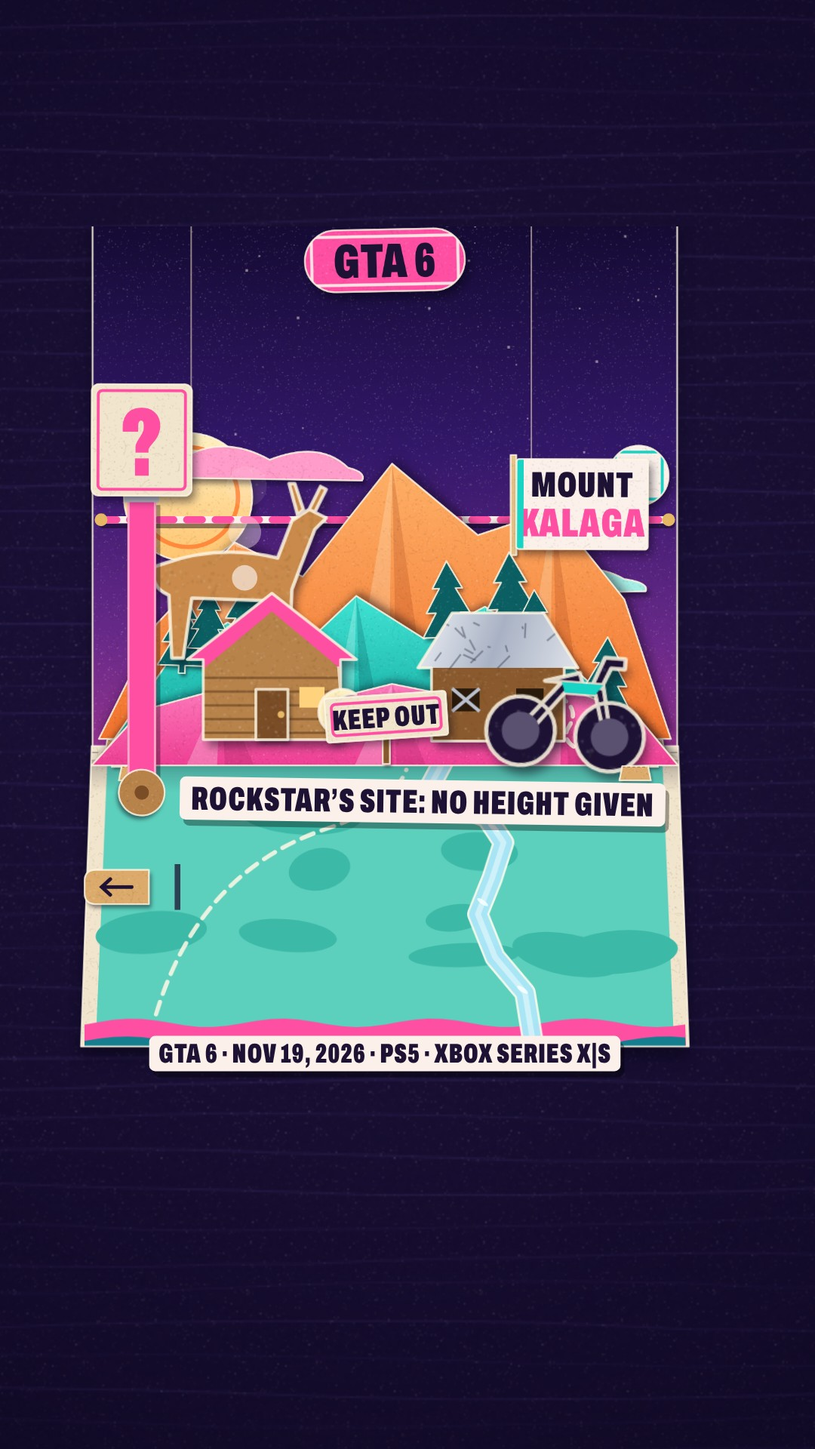
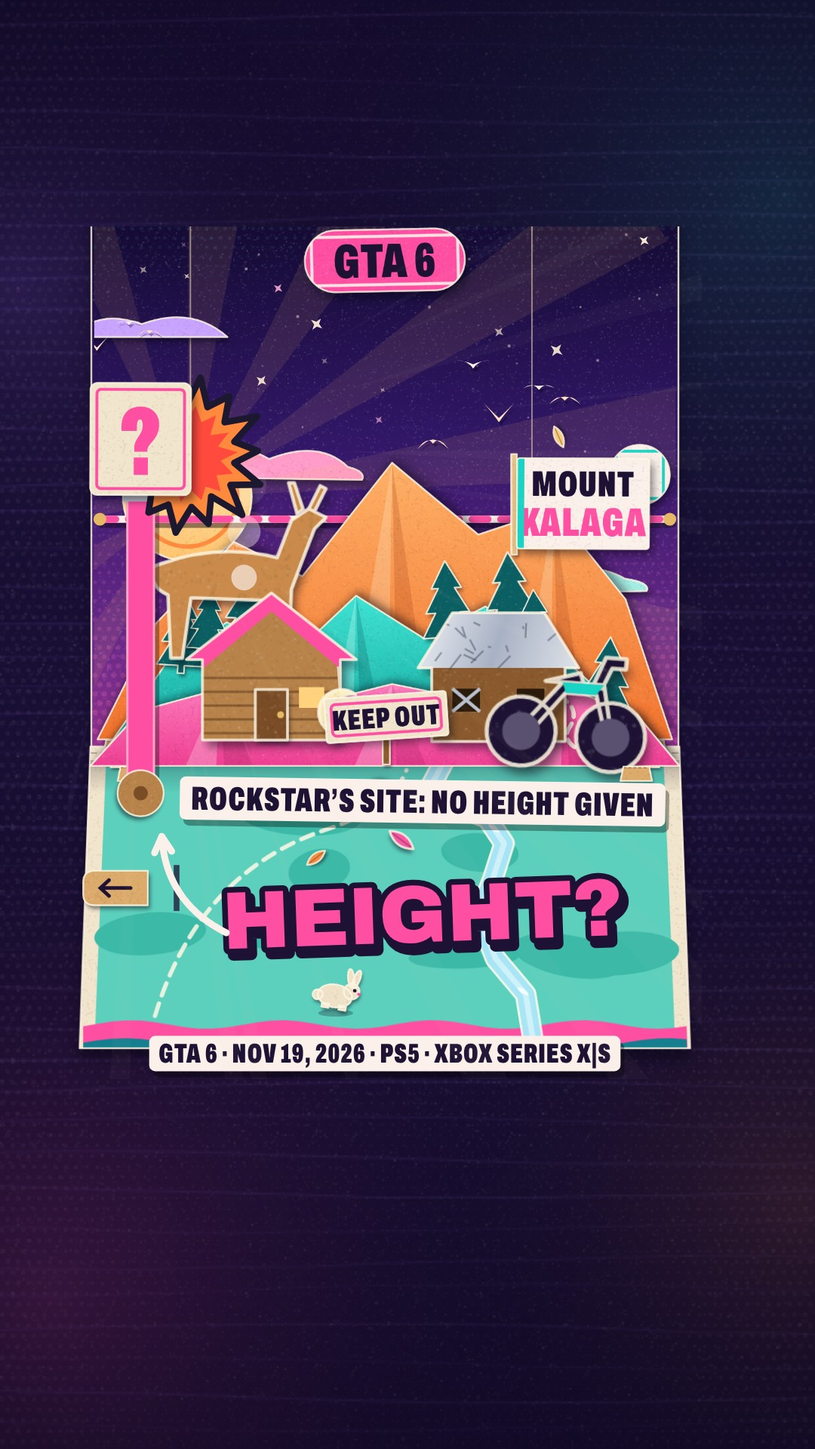
Delta: more graphical gta-kalaga cut (Isac: more graphics and content); LESSONS rule for every Delta film
Claude-Session: https://claude.ai/code/session_0183o4NXUvsYefT4N8YASy3i

diff --git a/film/gta-kalaga/film.js b/film/gta-kalaga/film.js
@@ -285,6 +285,8 @@
     P.page = piece([100, 230, 920, 990], rect(100, 230, 920, 990), grad(230, 990, [[0, '#120a30'], [.45, '#33186a'], [.8, '#6a2a8a'], [1, '#93338e']]), { sx: 0, sy: -8, blur: 18, ps: 1, extra: function (g) {
       var r = mulberry(5); g.fillStyle = 'rgba(255,240,230,.5)';
       for (var i = 0; i < 26; i++) { var x = 120 + r() * 780, y = 250 + r() * 380, s = 1.5 + r() * 2.5; g.fillRect(x, y, s, s); }
+      /* printed halftone: pink dots that grow toward the horizon, teal dots near the top */
+      for (var yy = 236; yy < 990; yy += 13) for (var xx = 104 + ((yy / 13) % 2) * 6.5; xx < 920; xx += 13) { var hk = clamp((yy - 560) / 420, 0, 1), tk = clamp((420 - yy) / 180, 0, 1); if (hk > 0) { g.fillStyle = 'rgba(255,120,190,' + (.10 + .12 * hk).toFixed(3) + ')'; g.beginPath(); g.arc(xx, yy, 1 + 3.4 * hk, 0, TAU); g.fill(); } if (tk > 0) { g.fillStyle = 'rgba(80,230,220,' + (.10 * tk).toFixed(3) + ')'; g.beginPath(); g.arc(xx, yy, 1 + 2 * tk, 0, TAU); g.fill(); } }
     } });
     P.sun = piece([-92, -92, 92, 92], function (g) { g.beginPath(); g.arc(0, 0, 90, 0, TAU); }, grad(-90, 90, [[0, '#fff1c2'], [1, '#ffc46e']]), { sy: 6, blur: 10, after: function (g) { g.strokeStyle = ORG; g.lineWidth = 6; g.beginPath(); g.arc(0, 0, 70, 0, TAU); g.stroke(); } });
     P.cloud1 = piece([0, -40, 360, 26], function (g) { g.beginPath(); g.moveTo(0, 20); g.quadraticCurveTo(40, -26, 100, -2); g.quadraticCurveTo(160, -44, 230, -6); g.quadraticCurveTo(300, -34, 340, 4); g.quadraticCurveTo(366, 10, 360, 22); g.closePath(); }, '#ff9cc9', { sy: 7, blur: 8 });
@@ -372,6 +374,7 @@
     P.pill = cardPiece(212, 82, HOT, [['GTA 6', 64, INK, 3]], { r: 41, ring: 'rgba(255,240,234,.9)' });
     /* Rockstar's words, exactly as printed on rockstargames.com/VI/only-in-leonida/kalaga, cut with … */
     P.s1 = buildStrip('“A national landmark up against the state’s northern border… prime hunting, fishing, and off-road trails.”', 760, 48, 61);
+    buildMore();
     P.s3 = buildStrip('“…hillbilly mystics and paranoid radicals live far from the prying eyes of the government.”', 760, 48, 63);
   }
   /* =====================================================================================================
@@ -384,7 +387,8 @@
     var d = eio(seg(t, T.dip0, T.dip0 + .9)) * (1 - eio(seg(t, T.up0, T.up0 + .8)));
     var pu = eio(seg(t, T.push0, T.push1)) * (1 - eio(seg(t, T.dip0, T.dip0 + .9)));
     var jolt = kn(t, T.pop + .12, .03) * (1 + .03 * Math.sin(Math.PI * .5 * seg(t, 0, T.pop)) * (1 - eio(seg(t, T.fold0, T.reopen + .4)))), ey = 1 + .06 * eio(seg(t, T.ey0, T.ey1)) * (1 - eio(seg(t, T.up0, T.up0 + .8)));
-    return { cx: 510 + 10 * d, cy: 865 + 40 * d + 12 * pu, s: (1 + .12 * d + .04 * pu) * jolt * ey, r: r, d: d };
+    var pn = 1; (T.punch || []).forEach(function (p) { pn *= KIT.punch(t, p[0], p[1]); });
+    return { cx: 510 + 10 * d, cy: 865 + 40 * d + 12 * pu, s: (1 + .12 * d + .04 * pu) * jolt * ey * pn, r: r, d: d };
   }
   function L(g, C, p) { var zz = 1 + (C.s - 1) * p; g.translate(510, 865); g.scale(zz, zz); g.translate(-(510 + (C.cx - 510) * p), -(865 + (C.cy - 865) * p)); }
   function lay(g, C, p, fn) { g.save(); L(g, C, p); fn(); g.restore(); }
@@ -443,7 +447,7 @@
     put(g, P.vtab, 140, 976); put(g, P.vtab, 880, 976);
     upright(g, 0, 992, Rm, function () {
       put(g, P.mMid, 0, 0);
-      PINES.forEach(function (p, i) { var y = ridgeY(MIDR, p[0]) + 22, s = p[1]; g.save(); g.translate(p[0], y); g.rotate(.035 * osc(t, 5 + (i % 3), i) + sw(t, T.flag + .1, .05, 7, 2.4) * (i % 2 ? 1 : -1)); g.scale(s, s); put(g, P.pine, 0, 0); g.restore(); });
+      PINES.forEach(function (p, i) { var y = ridgeY(MIDR, p[0]) + 22, s = p[1]; g.save(); g.translate(p[0], y); g.rotate(.06 * osc(t, 5 + (i % 3), i) + sw(t, T.flag + .1, .05, 7, 2.4) * (i % 2 ? 1 : -1)); g.scale(s, s); put(g, P.pine, 0, 0); g.restore(); });
       /* the deer pops up on "hunting" */
       var dk = pk(t, T.deer, 15); if (dk > .01) upright(g, 0, 862, dk * fz, function () { put(g, P.deer, 300, 862, 0, 2.0 * kn(t, T.deer + .05, .25)); });
     });
@@ -501,7 +505,8 @@
       g.fillStyle = 'rgba(255,240,234,.55)'; g.fillRect(150, top, 3, 1050 - top); g.fillRect(187, top, 3, 1050 - top);
       g.fillStyle = '#c9ccd8'; g.fillRect(146, top - 8, 48, 12); g.restore();
       put(g, P.spool, 170, 1050, t * 2);
-      if (t >= T.qtag - .02) { var qk = cd(t, T.qtag, 18), qy = lerp(300, top - 82, qk) + (1 - tk) * 0; upright(g, 0, 1050, tk, function () { NOREC = qk < .98 || tk < .98 || moving(C); putW(g, P.qtag, 170, qy, sw(t, T.qtag + .1, .12, 8, 3) + .02 * osc(t, 9)); NOREC = false; }); }
+      if (t >= T.qtag - .02) { var qk = cd(t, T.qtag, 18), qy = lerp(300, top - 82, qk) + (1 - tk) * 0; var bu = t - T.qtag - .1, bq = bu < 0 ? 0 : eo(seg(bu, 0, .16)) * featFold(t); if (bq > .01) KIT.burst(g, 236, top - 60, 104 * bq, bu, ORG);
+        upright(g, 0, 1050, tk, function () { NOREC = qk < .98 || tk < .98 || moving(C); putW(g, P.qtag, 170, qy, sw(t, T.qtag + .1, .12, 8, 3) + .02 * osc(t, 9)); NOREC = false; }); }
     }
     /* the frame-0 question and the end vote, pop-up panels on stilts */
     var qa = 1 - pk(t, T.tagDown, 16) + pk(t, T.tagUp, 16);
@@ -523,25 +528,215 @@
       put(g, P.page, 0, 0);
       put(g, P.sun, 238 + 5 * osc(t, 1), 640 + 4 * osc(t, 2));
       [[P.cloud1, 150, 590, 1, 0], [P.cloud2, 560, 760, 1, 2]].forEach(function (c) { var x = c[1] + 40 * osc(t, c[3], c[4]), y = c[2] + 6 * osc(t, 3, c[4]); g.strokeStyle = 'rgba(233,214,189,.6)'; g.lineWidth = 2; g.beginPath(); g.moveTo(x + 120, 230); g.lineTo(x + 120, y - 20); g.stroke(); put(g, c[0], x, y, .02 * osc(t, 4, c[4])); });
+      skyMore(g, t);
       ribbon(g, t);
       /* the N tab flips up with the border's snap */
       var nk = cd(t, T.ntab, 16) * (1 - eio(seg(t, T.fold0, T.fold0 + .4)));
       upright(g, 0, 650, Math.max(.08, nk), function () { NOREC = nk < .98 || moving(C); putW(g, P.ntab, 866, 606); NOREC = false; });
+      /* a hand-drawn circle lands on the N tab as the border snaps */
+      var nsa = 1 - seg(t, T.ntab + 1.8, T.ntab + 2.1); if (t > T.ntab + .1 && nsa > 0) { g.save(); g.globalAlpha *= nsa; KIT.scribble(g, 866, 606, 62, 58, eio(seg(t, T.ntab + .1, T.ntab + .45)), CREAM, 7, 2); g.restore(); }
     });
     book(g, C, 1, function () {
       put(g, P.map, 0, 0);
+      leaves(g, t);
       mountain(g, t, C);
+      mapMore(g, t);
       mapProps(g, t, C);
       /* the backwoods curtain slides across on "government" and away on "But" */
       var ck = eio(seg(t, T.cur0, T.cur0 + .6)), co = eio(seg(t, T.up0, T.up0 + .7));
-      if (ck > 0 && co < 1) put(g, P.curtain, lerp(-1060, 0, ck) + co * -1060, 0);
+      if (ck > 0 && co < 1) { put(g, P.curtain, lerp(-1060, 0, ck) + co * -1060, 0); woodsMore(g, t, lerp(-1060, 0, ck) + co * -1060, ck * (1 - co)); }
       /* the binoculars poke in from the right on "prying" and retreat behind the curtain */
       var bi = eio(seg(t, T.bin0, T.bin0 + .55)) * (1 - eio(seg(t, T.binOut, T.binOut + .5)));
       if (bi > 0) put(g, P.binoc, lerp(1120, 820, bi), 838 + 6 * osc(t, 9), -.05 + .03 * Math.sin(t * 3));
       /* the magnifier sweeps the slopes on "In Rockstar's words" */
       var mg = seg(t, T.mag0, T.mag0 + 1.5);
       if (mg > 0 && mg < 1) put(g, P.mag, lerp(-160, 1180, eio(mg)), 800 - 90 * Math.sin(mg * Math.PI), -.2 + .3 * mg);
+      setFx(g, t);
     });
+  }
+
+  /* =====================================================================================================
+     MORE GRAPHICAL (Isac, 2026-11-04): denser frames without touching the voice or a fact. Ambient paper life
+     (birds, drifting clouds, sun rays, twinkles, river shimmer, falling leaves, a rabbit, jumping fish, an owl,
+     fireflies), kit kinetic type on the key words, icon tags for each activity, kit fx hits, camera punches and
+     paper-ribbon wipes between beats. Every ambient motion is periodic in DUR (the loop holds); every new shape
+     clips itself to the rail, so nothing crosses x 90-930 / y 300-1430 even with the safety clip off.
+     ===================================================================================================== */
+  var KIT = window.KIT;
+  function frac(x) { return x - Math.floor(x); }
+  function railClip(g) { g.beginPath(); g.rect(BX0, BY0, BX1 - BX0, BY1 - BY0); g.clip(); }
+  function pageClip(g) { g.beginPath(); g.rect(104, 236, 812, 750); g.clip(); }
+  function buildMore() {
+    P.cloud3 = piece([0, -34, 300, 22], function (g) { g.beginPath(); g.moveTo(0, 18); g.quadraticCurveTo(30, -22, 90, -6); g.quadraticCurveTo(150, -40, 210, -8); g.quadraticCurveTo(280, -26, 300, 16); g.closePath(); }, '#ffd9a8', { sy: 6, blur: 8 });
+    P.cloud4 = piece([0, -26, 220, 18], function (g) { g.beginPath(); g.moveTo(0, 14); g.quadraticCurveTo(40, -26, 100, -4); g.quadraticCurveTo(170, -30, 220, 14); g.closePath(); }, '#c9a4ff', { sy: 6, blur: 8 });
+    P.leaves = [ORG, HOT, '#ffd27e', TEAL].map(function (col, i) { return piece([-16, -9, 16, 9], function (g) { g.beginPath(); g.moveTo(-16, 0); g.quadraticCurveTo(0, -12, 16, 0); g.quadraticCurveTo(0, 12, -16, 0); g.closePath(); }, col, { sx: 2, sy: 4, blur: 4, pad: 12, extra: function (g) { g.strokeStyle = 'rgba(60,20,10,.35)'; g.lineWidth = 1.5; g.beginPath(); g.moveTo(-12, 0); g.lineTo(13, 0); g.stroke(); } }); });
+    P.rabbit = piece([-34, -52, 34, 2], function (g) { g.beginPath(); g.ellipse(-4, -16, 24, 16, 0, 0, TAU); g.moveTo(26, -26); g.arc(18, -26, 11, 0, TAU); g.moveTo(16, -34); g.ellipse(14, -44, 4.5, 13, -.25, 0, TAU); g.moveTo(24, -34); g.ellipse(22, -44, 4.5, 13, .2, 0, TAU); g.moveTo(-22, -12); g.arc(-28, -14, 7, 0, TAU); g.rect(-20, -4, 10, 6); g.rect(4, -4, 10, 6); }, '#efe2c8', { sx: 2, sy: 4, blur: 5, pad: 14, after: function (g) { g.fillStyle = INK; g.beginPath(); g.arc(22, -28, 2.4, 0, TAU); g.fill(); g.fillStyle = HOT; g.beginPath(); g.arc(28.5, -24, 2.2, 0, TAU); g.fill(); } });
+    P.owl = piece([-30, -70, 30, 0], function (g) { g.beginPath(); g.moveTo(-26, 0); g.quadraticCurveTo(-32, -40, -22, -56); g.lineTo(-18, -70); g.lineTo(-8, -58); g.quadraticCurveTo(0, -61, 8, -58); g.lineTo(18, -70); g.lineTo(22, -56); g.quadraticCurveTo(32, -40, 26, 0); g.closePath(); }, '#9a6a3c', { sx: 2, sy: 4, blur: 5, pad: 14, extra: function (g) { g.fillStyle = '#c99a62'; g.beginPath(); g.ellipse(0, -16, 15, 16, 0, 0, TAU); g.fill(); g.fillStyle = ORG; g.beginPath(); g.moveTo(-4, -40); g.lineTo(4, -40); g.lineTo(0, -32); g.closePath(); g.fill(); } });
+  }
+  /* sky: slow paper rays behind the sun, twinkles, two more clouds drifting, a flock of paper birds */
+  function skyMore(g, t) {
+    g.save(); pageClip(g);
+    var sx = 238 + 5 * osc(t, 1), sy = 640 + 4 * osc(t, 2), rot = TAU / 14 * 2 * t / DUR;
+    g.fillStyle = 'rgba(255,190,120,.10)';
+    for (var i = 0; i < 14; i++) { var a = rot + i * TAU / 14; g.beginPath(); g.moveTo(sx, sy); g.lineTo(sx + Math.cos(a - .09) * 760, sy + Math.sin(a - .09) * 760); g.lineTo(sx + Math.cos(a + .09) * 760, sy + Math.sin(a + .09) * 760); g.closePath(); g.fill(); }
+    var r = mulberry(77);
+    for (i = 0; i < 16; i++) { var x = 130 + r() * 760, y = 260 + r() * 330, k = .5 + .5 * osc(t, 7 + (i % 5), r() * 6), s = (5 + r() * 7) * (.5 + .7 * k); g.save(); g.translate(x, y); g.rotate(TAU * t / DUR); g.globalAlpha = .35 + .6 * k; g.fillStyle = i % 4 ? '#fff1d8' : '#ffb3d9'; g.beginPath(); g.moveTo(0, -s); g.lineTo(s * .25, -s * .25); g.lineTo(s, 0); g.lineTo(s * .25, s * .25); g.lineTo(0, s); g.lineTo(-s * .25, s * .25); g.lineTo(-s, 0); g.lineTo(-s * .25, -s * .25); g.closePath(); g.fill(); g.restore(); }
+    /* two more clouds cross the sky, wrapping inside the page */
+    [[P.cloud3, 1, .15, 470], [P.cloud4, 2, .6, 395]].forEach(function (c) { var u = frac(t / DUR * c[1] + c[2]), x = lerp(-320, 940, u); put(g, c[0], x, c[3] + 6 * osc(t, 5, c[2] * 9)); });
+    /* paper birds: a flock of five crosses twice per loop, wings flapping */
+    for (var f = 0; f < 2; f++) {
+      var u = frac(t / DUR * 2 + (f ? .55 : .05)), bx = lerp(-120, 1040, u), by = (f ? 430 : 520) - 40 * Math.sin(u * Math.PI);
+      for (var b = 0; b < 5; b++) {
+        var ox = -b * 46 + (b % 2) * 10, oy = (b % 2 ? -1 : 1) * b * 15, fl = osc(t, 70 + b * 3, b), sc = f ? .8 : 1;
+        g.save(); g.translate(bx + ox * sc, by + oy * sc); g.scale(sc, sc);
+        g.fillStyle = 'rgba(6,3,18,.35)'; bird(g, 3, 5, fl); g.fillStyle = b % 2 ? '#fbf0ea' : '#ffe2c4'; bird(g, 0, 0, fl);
+        g.restore();
+      }
+    }
+    g.restore();
+  }
+  function bird(g, x, y, fl) { var w = 18 * fl; g.beginPath(); g.moveTo(x - 22, y - w); g.quadraticCurveTo(x - 10, y - w * .3, x, y + 4); g.quadraticCurveTo(x + 10, y - w * .3, x + 22, y - w); g.quadraticCurveTo(x + 8, y - 2, x, y + 10); g.quadraticCurveTo(x - 8, y - 2, x - 22, y - w); g.closePath(); g.fill(); }
+  /* map life: river shimmer, small fish jumping out of the stream, a rabbit hopping along the beach */
+  function mapMore(g, t) {
+    g.save();
+    for (var k = 0; k < 9; k++) { var u = frac(t / DUR * 5 + k / 9), f = u * (STREAM.length - 1), i = Math.floor(f), a = STREAM[i], b = STREAM[Math.min(i + 1, STREAM.length - 1)], x = lerp(a[0], b[0], f - i), y = lerp(a[1], b[1], f - i), tw = .5 + .5 * osc(t, 23 + k, k); g.globalAlpha = .5 + .5 * tw; g.fillStyle = '#ffffff'; g.beginPath(); g.moveTo(x, y - 7 * tw); g.lineTo(x + 2, y); g.lineTo(x, y + 7 * tw); g.lineTo(x - 2, y); g.closePath(); g.fill(); g.fillRect(x - 7 * tw, y - 1, 14 * tw, 2); }
+    g.globalAlpha = 1;
+    /* three little jumps per loop at three bends of the stream */
+    var ju = t / DUR * 3 + .32, jn = ((Math.floor(ju) % 3) + 3) % 3, jk = frac(ju) / .14;
+    if (jk < 1) { var sp = STREAM[[6, 4, 8][jn]], hx = sp[0] + (jk - .5) * 70, hy = sp[1] - 70 * Math.sin(Math.PI * jk);
+      g.strokeStyle = 'rgba(255,255,255,' + (.8 * (1 - jk)).toFixed(3) + ')'; g.lineWidth = 3; g.beginPath(); g.ellipse(sp[0] - 35, sp[1], 10 + 30 * jk, 4 + 10 * jk, 0, 0, TAU); g.stroke();
+      put(g, P.fish, hx, hy, (jk - .5) * 2.2, .8); }
+    /* the rabbit crosses the beach once per loop, hopping */
+    var ru = frac(t / DUR + .55), rx = lerp(150, 870, ru), hop = Math.abs(osc(t, 17, 0)), ra = clamp(Math.min(ru, 1 - ru) / .05, 0, 1);
+    if (ra > 0) { g.globalAlpha = ra; g.fillStyle = 'rgba(6,3,18,.25)'; g.beginPath(); g.ellipse(rx, 1356, 26 - 8 * hop, 5, 0, 0, TAU); g.fill(); put(g, P.rabbit, rx, 1354 - 26 * hop, -.18 * osc(t, 17, Math.PI / 2)); g.globalAlpha = 1; }
+    g.restore();
+  }
+  /* falling leaves over the whole book: eight at a time, each falls the height of the set in a few seconds */
+  function leaves(g, t) {
+    g.save(); g.beginPath(); g.rect(120, 300, 780, 1080); g.clip();
+    for (var i = 0; i < 8; i++) {
+      var r = mulberry(300 + i), x0 = 150 + r() * 700, k = 3 + (i % 3), ph = r(), u = frac(t / DUR * k + ph);
+      var y = lerp(260, 1400, u), x = x0 + 46 * osc(t, k * 3, i) + 30 * Math.sin(u * 7 + i), a = clamp(Math.min(u, 1 - u) / .08, 0, 1);
+      g.globalAlpha = a * .95; put(g, P.leaves[i % 4], x, y, 2.5 * osc(t, k * 2, i * 2) + i, 1 + .3 * (i % 2));
+    }
+    g.restore();
+  }
+  /* backwoods life on the pine curtain: an owl that blinks, fireflies */
+  function woodsMore(g, t, xoff, vis) {
+    if (vis <= .01) return;
+    g.save(); g.globalAlpha = vis;
+    var ok = cd(t, T.owl, 14); if (ok > .01) { g.save(); g.translate(xoff + 258, 880); g.scale(1.7 * ok, 1.7 * ok); put(g, P.owl, 0, 0); var bl = Math.abs(Math.sin(TAU * 3 * t / DUR * 4)) < .12 ? .15 : 1; g.fillStyle = '#ffe9a8'; [-9, 9].forEach(function (ex) { g.beginPath(); g.ellipse(ex, -44, 6.5, 6.5 * bl, 0, 0, TAU); g.fill(); }); g.fillStyle = INK; [-9, 9].forEach(function (ex) { g.beginPath(); g.ellipse(ex, -44, 2.6, 2.6 * bl, 0, 0, TAU); g.fill(); }); g.restore(); }
+    for (var i = 0; i < 12; i++) { var r = mulberry(500 + i), x = 150 + r() * 720, y = 760 + r() * 230, fx = x + 26 * osc(t, 11 + i, i), fy = y + 18 * osc(t, 13 + i, i * 2), gl = .5 + .5 * osc(t, 29 + i, i * 3); g.fillStyle = 'rgba(255,230,120,' + (.25 * gl).toFixed(3) + ')'; g.beginPath(); g.arc(fx, fy, 12, 0, TAU); g.fill(); g.fillStyle = 'rgba(255,248,200,' + (.6 + .4 * gl).toFixed(3) + ')'; g.beginPath(); g.arc(fx, fy, 3.5, 0, TAU); g.fill(); }
+    g.restore();
+  }
+  /* the bench: coloured light pools and a halftone texture (texture only, no shapes) */
+  var BENCHFX = null;
+  function benchMore(g, t) {
+    if (!BENCHFX) {
+      BENCHFX = mk(W, H); var q = BENCHFX.getContext('2d');
+      [[60, 1720, 700, 'rgba(255,79,163,.30)'], [1040, 260, 640, 'rgba(25,211,197,.24)'], [1060, 1600, 520, 'rgba(255,138,61,.22)'], [20, 380, 460, 'rgba(160,110,255,.24)']].forEach(function (L) { var gr = q.createRadialGradient(L[0], L[1], 0, L[0], L[1], L[2]); gr.addColorStop(0, L[3]); gr.addColorStop(1, 'rgba(0,0,0,0)'); q.fillStyle = gr; q.fillRect(0, 0, W, H); });
+      q.fillStyle = 'rgba(255,200,240,.07)'; for (var y = 6; y < H; y += 14) for (var x = (y / 14 % 2) * 7; x < W; x += 14) { var d = Math.min(x, W - x, Math.abs(y - 1100) * .6) / 300; q.beginPath(); q.arc(x, y, 1.2 + 2.2 * clamp(1 - d, 0, 1), 0, TAU); q.fill(); }
+    }
+    g.save(); g.globalAlpha = .85 + .15 * osc(t, 2); g.drawImage(BENCHFX, 0, 0); g.restore();
+  }
+
+  /* ---------- kinetic type and fx on the glass (screen coordinates, clipped to the rail) ---------- */
+  function sk(g, s, x, y, px, o) { return KIT.sticker(g, s, x, y, px, Object.assign({ wide: false, ink: INK, lw: Math.max(5, px * .14) }, o)); }
+  function slamIn(u, from) { var k = eo(clamp(u / .14, 0, 1)); return lerp(from || 1.3, 1, k) - .06 * (u > .12 ? Math.exp(-(u - .12) * 8) * Math.sin((u - .12) * 30) : 0); }
+  /* an icon tag: coloured card, cream icon disc, sticker word */
+  function iconTag(g, word, icon, x, y, px, bg, s, rot, a) {
+    if (s <= .01 || a <= .01) return;
+    g.save(); g.globalAlpha *= a; g.translate(x, y); g.rotate(rot || 0); g.scale(s, s);
+    var tw = KIT.measure(g, word, px, { wide: false }), h = px * 1.55, ir = h * .36, w = tw + ir * 2 + px * .9;
+    rr(g, -w / 2 + 5, -h / 2 + 8, w, h, 14); g.fillStyle = 'rgba(6,3,18,.4)'; g.fill();
+    rr(g, -w / 2, -h / 2, w, h, 14); g.fillStyle = bg; g.fill(); g.lineWidth = 4; g.strokeStyle = 'rgba(255,247,228,.9)'; g.stroke();
+    g.save(); g.globalAlpha *= .35; rr(g, -w / 2, -h / 2, w, h, 14); g.clip(); g.fillStyle = g.createPattern(GRAIN, 'repeat'); g.fillRect(-w / 2, -h / 2, w, h); g.restore();
+    var ix = -w / 2 + px * .3 + ir; g.beginPath(); g.arc(ix, 0, ir, 0, TAU); g.fillStyle = CREAM; g.fill(); g.lineWidth = 3; g.strokeStyle = INK; g.stroke();
+    g.save(); g.translate(ix, 0); icon(g, ir); g.restore();
+    sk(g, word, ix + ir + px * .3 + tw / 2, px * .04, px, { col: CREAM });
+    g.restore();
+  }
+  var ICON = {
+    deer: function (g, r) { put(g, P.deer, 0, r * .62, 0, r / 70); },
+    fish: function (g, r) { put(g, P.fish, 0, 0, -.2, r / 34); },
+    bike: function (g, r) { put(g, P.bike, 0, r * .25, 0, r / 50); },
+    moon: function (g, r) { put(g, P.moon, 0, 0, 0, r / 22); },
+    warn: function (g, r) { g.beginPath(); g.moveTo(0, -r * .8); g.lineTo(r * .8, r * .6); g.lineTo(-r * .8, r * .6); g.closePath(); g.fillStyle = ORG; g.fill(); g.lineWidth = 3; g.strokeStyle = INK; g.stroke(); g.fillStyle = INK; g.fillRect(-2.5, -r * .35, 5, r * .5); g.beginPath(); g.arc(0, r * .35, 3.2, 0, TAU); g.fill(); }
+  };
+  /* speed lines, kept inside the rail */
+  function focus(g, cx, cy, t, a) { if (a <= 0) return; g.save(); railClip(g); KIT.speedLines(g, W, H, cx, cy, t, a, { n: 44, col: CREAM, r0: 300 }); g.restore(); }
+  /* the beat wipe: three torn paper ribbons whip across inside the rail */
+  function whip(g, t, t0) {
+    if (t < t0 || t > t0 + .6) return;
+    g.save(); railClip(g);
+    [[HOT, 600], [TEAL, 880], [ORG, 1160]].forEach(function (c, i) {
+      var s0 = t0 + i * .05, a = eio(seg(t, s0, s0 + .2)), b = eio(seg(t, s0 + .22, s0 + .42)); if (a <= b) return;
+      var x0 = lerp(BX0, BX1, b), x1 = lerp(BX0, BX1, a), y = c[1], hh = 74, r = mulberry(91 + i);
+      g.beginPath(); g.moveTo(x0, y - hh / 2); for (var x = x0; x < x1; x += 14) g.lineTo(x, y - hh / 2 + (r() - .5) * 8); g.lineTo(x1, y - hh / 2); g.lineTo(x1 - 14, y); g.lineTo(x1, y + hh / 2); for (x = x1; x > x0; x -= 14) g.lineTo(x, y + hh / 2 + (r() - .5) * 8); g.lineTo(x0, y + hh / 2); g.closePath();
+      g.save(); g.shadowColor = 'rgba(6,3,18,.5)'; g.shadowBlur = 10; g.shadowOffsetY = 8; g.fillStyle = c[0]; g.fill(); g.restore();
+    });
+    g.restore();
+  }
+  /* kinetic words: [text, x, y, px, col, tin, tout, from, rot] */
+  var KW = [];
+  function kinetic(g, t) {
+    g.save(); railClip(g);
+    /* hook pop: focus lines and a hit ring on the peak as the mountain snaps up */
+    focus(g, 510, 640, t, .55 * (1 - seg(t, T.pop + .05, T.pop + .45)) * (t >= T.pop ? 1 : 0));
+    KIT.impact(g, 510, 640, t - T.pop, .8, CREAM);
+    /* KALAGA slams on the map, holds, then flies up into its flag */
+    var ku = t - T.kal;
+    if (ku >= 0 && t < T.kalOut + .4) {
+      var fly = eio(seg(t, T.kalOut, T.kalOut + .4)), kx = lerp(CX, 776, fly), ky = lerp(1068, 662, fly), ks = slamIn(ku, 1.5) * lerp(1, .3, fly);
+      NOREC = ku < .16 || fly > 0;
+      g.save(); g.globalAlpha *= clamp(ku / .05, 0, 1) * (1 - seg(fly, .7, 1)); g.translate(kx, ky); g.rotate(-.04); g.scale(ks, ks); sk(g, 'KALAGA', 0, 0, 92, { col: HOT }); g.restore(); NOREC = false;
+    }
+    /* the activity tags: big on their words, then they tuck into one row before the backwoods caption */
+    var tuck = eio(seg(t, T.tuck, T.tuck + .35)), tagOut = seg(t, T.tagsOut, T.tagsOut + .3);
+    [['HUNTING', ICON.deer, ORG, T.deer, 300, 455, 240, -.04], ['FISHING', ICON.fish, TEAL, T.fish, 724, 455, 545, .035], ['OFF-ROAD', ICON.bike, HOT, T.bike + .05, 510, 560, 390, -.02]].forEach(function (q) {
+      var u = t - q[3]; if (u < 0 || tagOut >= 1) return;
+      var s = slamIn(u, 1.25) * lerp(1, .85, tuck) * (1 - .3 * tagOut), x = lerp(q[4], q[6], tuck), y = q[5] + lerp(0, q[5] > 500 ? 105 : 117, tuck) + 60 * tagOut;
+      NOREC = u < .16 || (tuck > 0 && tuck < 1) || tagOut > 0;
+      iconTag(g, q[0], q[1], x, y, 46, q[2], s, q[7] * (1 - .5 * tuck), clamp(u / .05, 0, 1) * (1 - tagOut)); NOREC = false;
+    });
+    /* the backwoods pair: two sticker lines slam on their words */
+    var bo = seg(t, T.bwOut, T.bwOut + .3);
+    [['HILLBILLY MYSTICS', ICON.moon, '#ffd27e', T.bw1, 426, -.025], ['PARANOID RADICALS', ICON.warn, TEAL, T.bw2, 504, .02]].forEach(function (q) {
+      var u = t - q[3]; if (u < 0 || bo >= 1) return;
+      NOREC = u < .16 || bo > 0;
+      g.save(); g.globalAlpha *= clamp(u / .05, 0, 1) * (1 - bo); g.translate(CX, q[4] - 70 * bo); g.rotate(q[5]); var s = slamIn(u, 1.12); g.scale(s, s);
+      var tw = KIT.measure(g, q[0], 56, { wide: false }), w = tw + 80; g.save(); g.translate(-w / 2 + 28, 0); g.beginPath(); g.arc(0, 0, 27, 0, TAU); g.fillStyle = CREAM; g.fill(); g.lineWidth = 3; g.strokeStyle = INK; g.stroke(); q[1](g, 27); g.restore();
+      sk(g, q[0], -w / 2 + 68 + tw / 2, 2, 56, { col: q[2] }); g.restore(); NOREC = false;
+    });
+    /* the hero: HEIGHT? slams beside the ? tag, a burst behind the tag, focus lines, an arrow to it */
+    var hu = t - T.qtag;
+    if (hu >= 0 && t < T.hOut + .3) {
+      var ho = seg(t, T.hOut, T.hOut + .3);
+      focus(g, 198, 592, t, .5 * (1 - seg(hu, .05, .45)));
+      NOREC = hu < .16 || ho > 0;
+      var lift = eio(seg(t, T.voteM - .2, T.voteM + .15)), hx = lerp(560, 560, lift), hy = lerp(1215, 562, lift);
+      NOREC = NOREC || (lift > 0 && lift < 1);
+      g.save(); g.globalAlpha *= clamp(hu / .05, 0, 1) * (1 - ho); g.translate(hx, hy); g.rotate(-.035); var hs = slamIn(hu, 1.3) * lerp(1, .6, lift); g.scale(hs, hs); sk(g, 'HEIGHT?', 0, 0, 108, { col: HOT }); g.restore(); NOREC = false;
+      g.save(); g.globalAlpha *= (1 - ho) * (1 - lift); KIT.arrow(g, 300, 1236, 214, 1100, eio(seg(hu, .18, .5)), CREAM, 9, -.3); g.restore();
+    }
+    /* the vote: one identical hit ring on each panel on its own word */
+    KIT.impact(g, 317, 1196, t - T.kM, .5, CREAM); KIT.impact(g, 703, 1196, t - T.kH, .5, CREAM);
+    /* wipes between beats */
+    T.wipes.forEach(function (w0) { whip(g, t, w0); });
+    g.restore();
+  }
+  /* fx that ride the set (book coordinates): hit rings on each pop-up, scribbles on the N tab, KEEP OUT, the lenses */
+  function setFx(g, t) {
+    KIT.impact(g, 300, 760, t - T.deer, .55, CREAM);
+    KIT.impact(g, 652, 1010, t - T.fish, .45, CREAM);
+    KIT.impact(g, 700, 930, t - T.bike, .5, CREAM);
+    KIT.impact(g, 352, 900, t - T.cab1, .5, CREAM);
+    KIT.impact(g, 668, 910, t - T.cab2, .5, CREAM);
+    var fo = 1 - eio(seg(t, T.cur0 - .1, T.cur0 + .2));
+    if (fo > 0) { g.save(); g.globalAlpha *= fo; KIT.scribble(g, 512, 944, 112, 50, eio(seg(t, T.cab2 + .25, T.cab2 + .6)), HOT, 8, 3); g.restore(); }
+    var bo = 1 - eio(seg(t, T.binOut, T.binOut + .3));
+    if (bo > 0 && t > T.bin0) { g.save(); g.globalAlpha *= bo; KIT.scribble(g, 816, 838, 110, 64, eio(seg(t, T.bin0 + .45, T.bin0 + .8)), HOT, 8, 5); g.restore(); }
+    var sa = 1 - seg(t, T.lmk + 2.2, T.lmk + 2.5); if (t > T.lmk && sa > 0) { g.save(); g.globalAlpha *= sa; KIT.emote(g, 'sparkle', 862, 596, .85, t - T.lmk, t); g.restore(); }
   }
 
   /* =====================================================================================================
@@ -656,7 +851,7 @@
     stage(g);
     var C = cam(t);
     /* the bench grain bleeds to the full frame (texture only: no shape or text outside the rail) */
-    if (LIVE2.bg) { lay(g, C, 1, function () { put(g, P.bench, 0, 0); }); vignette(g); }
+    if (LIVE2.bg) { lay(g, C, 1, function () { put(g, P.bench, 0, 0); }); benchMore(g, t); vignette(g); }
     g.save(); if (LIVE2.clip) { g.beginPath(); g.rect(BX0, BY0, BX1 - BX0, BY1 - BY0); g.clip(); }
     world(g, t, C);
     /* the GTA 6 sticker on the glass, top centre; it knocks on "GTA" */
@@ -669,6 +864,7 @@
     chipAt(g, t, 'IN ROCKSTAR’S WORDS', CX, 470, T.inw, T.inwOut, { px: 50, bg: CREAM, rot: -.015, from: -40 });
     chipAt(g, t, 'ROCKSTAR’S SITE: NO HEIGHT GIVEN', 560, 1062, T.hchip, T.hchipOut, { px: 44, bg: CREAM, rot: .015 });
     chipAt(g, t, 'GTA 6 · NOV 19, 2026 · PS5 · XBOX SERIES X|S', CX, 1396, T.dateIn, T.reopen - .3, { bg: CREAM });
+    kinetic(g, t);
     g.restore();
     if (!POSTERMODE && LIVE.text) captions(g, t);
     if (LIVE.grain && NOISE && LIVE2.bg) { g.globalAlpha = .05; g.globalCompositeOperation = 'overlay'; var o = Math.floor(t * 24) * 37 % 256; g.fillStyle = g.createPattern(NOISE, 'repeat'); g.translate(-o, -o); g.fillRect(o, o, W, H); g.setTransform(1, 0, 0, 1, 0, 0); g.globalAlpha = 1; g.globalCompositeOperation = 'source-over'; }
@@ -689,6 +885,10 @@
     Tx('qtag', '?', T.qtag + .15, T.fold0);
     Tx('voteM', 'MOUNTAIN', T.voteM + .2, T.fold0);
     Tx('voteH', 'HILL', T.voteH + .2, T.fold0);
+    Tx('kal', 'KALAGA', T.kal + .05, T.kalOut + .05);
+    Tx('t1', 'HUNTING', T.deer + .1, T.tagsOut + .05); Tx('t2', 'FISHING', T.fish + .1, T.tagsOut + .05); Tx('t3', 'OFF-ROAD', T.bike + .15, T.tagsOut + .05);
+    Tx('bw1', 'HILLBILLY MYSTICS', T.bw1 + .1, T.bwOut + .05); Tx('bw2', 'PARANOID RADICALS', T.bw2 + .1, T.bwOut + .05);
+    Tx('hq', 'HEIGHT?', T.qtag + .1, T.hOut + .05);
     Tx('date', 'GTA 6 · NOV 19, 2026 · PS5 · XBOX SERIES X|S', T.dateIn + .15, T.reopen - .25);
     return o;
   }
@@ -755,6 +955,16 @@
     T.hchipOut = Math.max(T.hchip + need('ROCKSTAR’S SITE: NO HEIGHT GIVEN'), T.voteM - .1);
     T.dateIn = Math.max(T.s3Out + .45, T.hchip + .2);
     T.tagUp = T.reopen;
+    /* more graphical (2026-11-04): kinetic words, tags, wipes, punches */
+    T.kal = at('name', 'kalaga'); T.kalOut = Math.max(T.s1In + .1, T.kal + 2.0);
+    T.tuck = start('backwoods') - .45; T.tagsOut = at('backwoods', 'hillbilly') - .3;
+    T.bw1 = at('backwoods', 'hillbilly'); T.bw2 = at('backwoods', 'paranoid');
+    T.bwOut = T.bw2 + 2.75; T.owl = T.cur0 + .5;
+    T.hOut = T.qtag + 2.15;
+    T.wipes = [start('ask') - .2, start('backwoods') - .1, start('height') - .3];
+    T.wipes.forEach(function (w0, i) { G('wipe' + i, w0 + .05, 'swish', .3, .7); });
+    /* punches only where the camera is not already pushed in (the map's corners would cross the rail under push x punch) */
+    T.punch = [[T.flag + .05, .02], [T.qtag, .03], [T.kM, .015], [T.kH, .015]];
     G('reopen', T.reopen + .05, 'creak', .2, .45);
     /* two pink highlights in the whole film, no more: the name and the missing height */
     STRESS = [['name', 'kalaga'], ['height', 'height']].map(function (p) { return at(p[0], p[1]); });

diff --git a/film/gta-kalaga/index.html b/film/gta-kalaga/index.html
@@ -99,6 +99,8 @@
 <script src="vo/vo.js"></script>
 <script src="vo/vad.js"></script>
 <script src="vo/heard.js"></script>
+
+<script src="../kit/kit.js"></script>
 <script src="film.js"></script>
 <script>
 (function () {

diff --git a/film/gta-kalaga/BRIEF.md b/film/gta-kalaga/BRIEF.md
@@ -84,3 +84,4 @@ Turn words: "In the real world" 4.6 s, "So" 10.0 s, "Plus" 16.5 s, "And" 19.4 s,
 - 2026-11-01 (fresh jury, round 1): 6.8 overall (hook 6.4, retention 5.9, clarity 6.3, truth 8.0, craft 7.2, sound 7.0, loop 7.2, share 6.5), don't post. Poster put MOUNT KALAGA beside 345 FT (read as the mountain's height); freezes at 6.2–7.9, 14.3–15.7, 17.0–18.6, 23.0–25.5 s; middle read as Rockstar's blurb.
 - 2026-11-01 (new fresh jury, round 2): 7.0 overall (hook 6.8, retention 7.0, clarity 6.8, truth 8.5, craft 6.5, sound 7.0, loop 7.8, share 5.8). Under the 7.4 gate after 2 rounds: **held, not uploaded**. Open fix list if reopened: (1) fade the GTA 6 pill out over the REAL WORLD beat (5.0–9.8 s) so GTA 6 never sits above "Florida tops out at 345 feet"; (2) one hero on the poster (345 FT stamp at ~8.3 s, or make the blank ? tape the hero); (3) frame 0 layers at 50%, snap on the onset of "mountain" (1.36 s, pop is 0.4 s late), fold creak at 0.0 s; (4) fill y 1100–1350 by 5.3 s on the bench beat, caption at full opacity by 5.4 s; (5) wow: on "mountain" the pop-up stands 100%, on "hill" it sinks to 30%, springs back on "One word."; (6) bleed sky and bench grain to the full frame (no shapes/text outside the rail) so it stops reading as a small window; (7) pop-ups ≥ 220 px with a 1.25× push onto each on its word (10.5–17.5 s); (8) strip 3 peel at 25.3 s clipped at x 90: peel up inside the rail; (9) scope the voice: "Rockstar's site never gives its height"; (10) the Florida beat needs Leonida = Florida, which the film can't say: if still short, cut `real` and rebuild around the blank tape.
 - 2026-11-04 (director, 7.0 gate: round 2's 7.0 / Truth 8.5 passes, so no new jury round; ready to post). **Facts re-checked today** (curl -sA "Mozilla/5.0", all HTTP 200): rockstargames.com/VI still says "November 19, 2026", "PlayStation 5", "Xbox Series X|S"; the Kalaga page still carries the quote byte for byte (curly ’ in "state’s") and still has no height ("feet", "ft.", "elevation", "summit", "tallest", "highest": 0 hits); "Florida" is on neither page (0 hits); USGS still lists Florida · Britton Hill · Walton · 345. Nothing changed at the source. **Applied:** (10) the Florida beat is cut, using the §1 fallback. It only lands if Leonida = Florida, which the film can't say. Line `real`, the ruler, REAL WORLD, the USGS chip and the 345 FT stamp are all gone, and the film now rests on Rockstar's text alone. That also settles (1), with no GTA 6 pill over a real-world beat, and (4), with no bench beat to fill. (9) The voice now says "But Rockstar's site never gives its height." and the chip reads ROCKSTAR’S SITE: NO HEIGHT GIVEN. (2) The blank tape is now the one hero: a bigger ? card (140×156, pink ring) stamps onto the tape in the 0.9 s written pause after "height." with a heavy stamp hit. The poster is taken there (22.48 s) with no caption: GTA 6, MOUNT KALAGA, a blank tape with ?, the NO HEIGHT chip and the date chip. (3) Frame 0 opens with the layers at 50% and rising and a fold creak at 0.0 s. They snap on the onset of "mountain" (1.34 s), with a quiet pop under the word. Frame 0 shows 3 words (GTA 6, MOUNTAIN?), with GTA 6 at the top from frame 0 and spoken at 0.2 s. (5) On the vote, the mountain stands on "mountain", sinks to 30% on "hill" and springs back on "One". It then folds flat and re-opens to frame 0's 50%. (7) Pop-ups are bigger: deer ×2.0, fish ×2.7, bike ×2.4 and cabins ×1.6, all 200–235 px on screen. Each one knocks to 1.25× on its word. (8) Strips peel up and fade inside the rail instead of sliding sideways. KEEP OUT moved between the cabins so the bike no longer covers it. **Partly applied:** (6) the bench grain now bleeds to the full frame and the vignette is full-frame. The sky stays the standing page's, because a sky bleed would put a shape outside the rail. (7) There is no 1.25× camera push: at that zoom the 850 px book would be cut by the rail clip. The slow push dropped from 1.06 to 1.04. **Script:** ask 4.45, landmark 6.05, trails 9.55, backwoods 12.6, eyes 16.6, height 19.9, end 23.0, dur 26.3. Only "height" was re-synthesised; the other lines are cached Ming US_James seed 7 takes. vo/vad.js was regenerated from the new vo.wav (10 ms frames within 40 dB). **Checks:** solo and in-mix Whisper 9/9 lines wer 0. Mix −13.8 LUFS (true peak −2.6), voice-only −14.3. Readcheck all ok, boundscheck "nothing out of bounds", pacecheck OK with no WARN (motion 0–1 s 0.383, 0–3 s 0.349, no frozen stretch), no black, loop seam diff 2.5/255. Every hit is 7–20 dB under its neighbouring words. Rail pixel scan, run with the bleed and the safety clip off: the only crossings are planned entrances and exits that the clip hides at the rail (magnifier sweep 5.0–6.5 s, strip slide-ins from below at 5.1 and 13.8 s, the pine curtain and the 1.12 dip at 14–19.7 s, the date chip's 40 px rise at 21.3 s). The final picture draws nothing but bench grain outside x 90–930 / below y 1450. Deliverables were copied to /mnt/project-files/factory/gta-kalaga/. The mount adds a C2PA manifest, so file md5s differ, but the stream md5s are identical. seo.md was updated: the Florida paragraph and USGS source are removed, sources are dated 2026-11-04, and the disclaimer is the closing line.
+- 2026-11-04 (director, "more graphical" pass; Isac: "make video more graphical, add more content and graphics to make it more enjoyable"). Voice track, script, quotes and every fact unchanged (no re-synthesis); duration 26.3 s. **Added** (film.js "MORE GRAPHICAL" block, kit.js now loaded in index.html): loop-periodic paper life (a flock of paper birds twice per loop, two more drifting clouds, slow sun rays, twinkling stars, a halftone sky, nine river glints, small fish jumping at three bends, a hopping rabbit, falling leaves behind the pop-ups, pines swaying harder, an owl and fireflies in the pine curtain); colour glows and halftone on the bench (texture only). Kit kinetic type: KALAGA slams on the map on "Kalaga" and flies into its flag; HUNTING / FISHING / OFF-ROAD icon tags (deer, fish, bike) on their words, tucking lower before the backwoods caption; HILLBILLY MYSTICS (moon) and PARANOID RADICALS (warning) stickers on "hillbilly" / "paranoid"; HEIGHT? (108 px) slams on the empty map at the ? stamp, then lifts beside the ? for the vote. All ≥ 36 px, all in TEXTS; the quote strips stay plain. Fx: focus lines + hit ring on the hook pop, hit rings on each pop-up and each vote panel (both the same), a sparkle on the flag at "landmark", scribbles on the N tab, KEEP OUT and the lenses, a burst behind the ? tag (the hero) with focus lines and an arrow to the tape. Camera punches on the flag, the ? and the vote (not while the camera is pushed in: push × punch crossed the rail). Paper-ribbon wipes before "So what's out there?", the backwoods and "But" (two get a gated swish). Poster (22.48 s): GTA 6, ? tag with burst, MOUNT KALAGA, NO HEIGHT chip, HEIGHT?, date chip. **Checks:** in-mix Whisper 9/9 lines wer 0; mix −13.8 LUFS (TP −2.6), voice-only −14.3; readcheck all ok (new words 1.97–3.6 s on screen); boundscheck "nothing out of bounds"; pacecheck OK, no WARN (motion 0–1 s 0.453, 0–3 s 0.455, was 0.383 / 0.349); no black; loop seam diff 2.95/255; every hit 12–35 dB under its neighbouring words (the hook pop sits under "mountain" as before). Rail pixel scan identical to the previous cut (same four planned, clip-hidden crossings: magnifier 5.1–6.5 s, map corner/strip/dip 10.7–19.7 s, date chip 21.3 s); no new shape crosses. Deliverables copied to /mnt/project-files/factory/gta-kalaga/ (stream md5s match after the 10 s re-check).

diff --git a/factory/LESSONS.md b/factory/LESSONS.md
@@ -264,3 +264,9 @@ Read 2026-11-03 00:17 UTC. YT = YouTube Shorts views, TT = TikTok plays (0* = no
 - An end question must not restate the cause wrongly: "Should a mod change a rating?" contradicted ESRB, which re-rated because the content was on the disc (gta-pulled r1, Truth 8.0).
 - Say the hook's subject on screen at frame 0: "Walmart" spoken first but not shown until 17 s cost Hook (gta-pulled r2). An unlabeled year tile on a game case reads as its release year (gta-pulled r2: 2005 on a 2004 game).
 - Wide topics did not fix the score: both broad Shorts (gta-money, gta-pulled) still landed 6.8-7.2 with Truth 8.5; the juries mark down stillness (a change every 1.2 s) and quiet hero sounds, not topic width.
+
+### More graphical (Isac 2026-11-04: "make video more graphical, add more content and graphics")
+- Something new every 1-2 s: loop-periodic paper life (birds, drifting clouds, sun rays, twinkles, river shimmer, falling leaves, a critter); no empty sky, and the bench gets colour glows + halftone (texture only, no shapes).
+- Kinetic type (kit `slam`/`popWords`, ≥ 36 px) on each key word plus an icon tag per listed item, in the caption zone only while the caption is off; register each in TEXTS so readcheck holds it, and never highlight inside a quote.
+- One kit fx hit per stressed word (impact ring, scribble, arrow; one burst, on the hero), paper-ribbon wipes between beats, camera punches only while the camera is not pushed in (push × punch breaks the rail).
+- Every new shape clips itself to the rail, and there is still one hero per beat (gta-kalaga).
